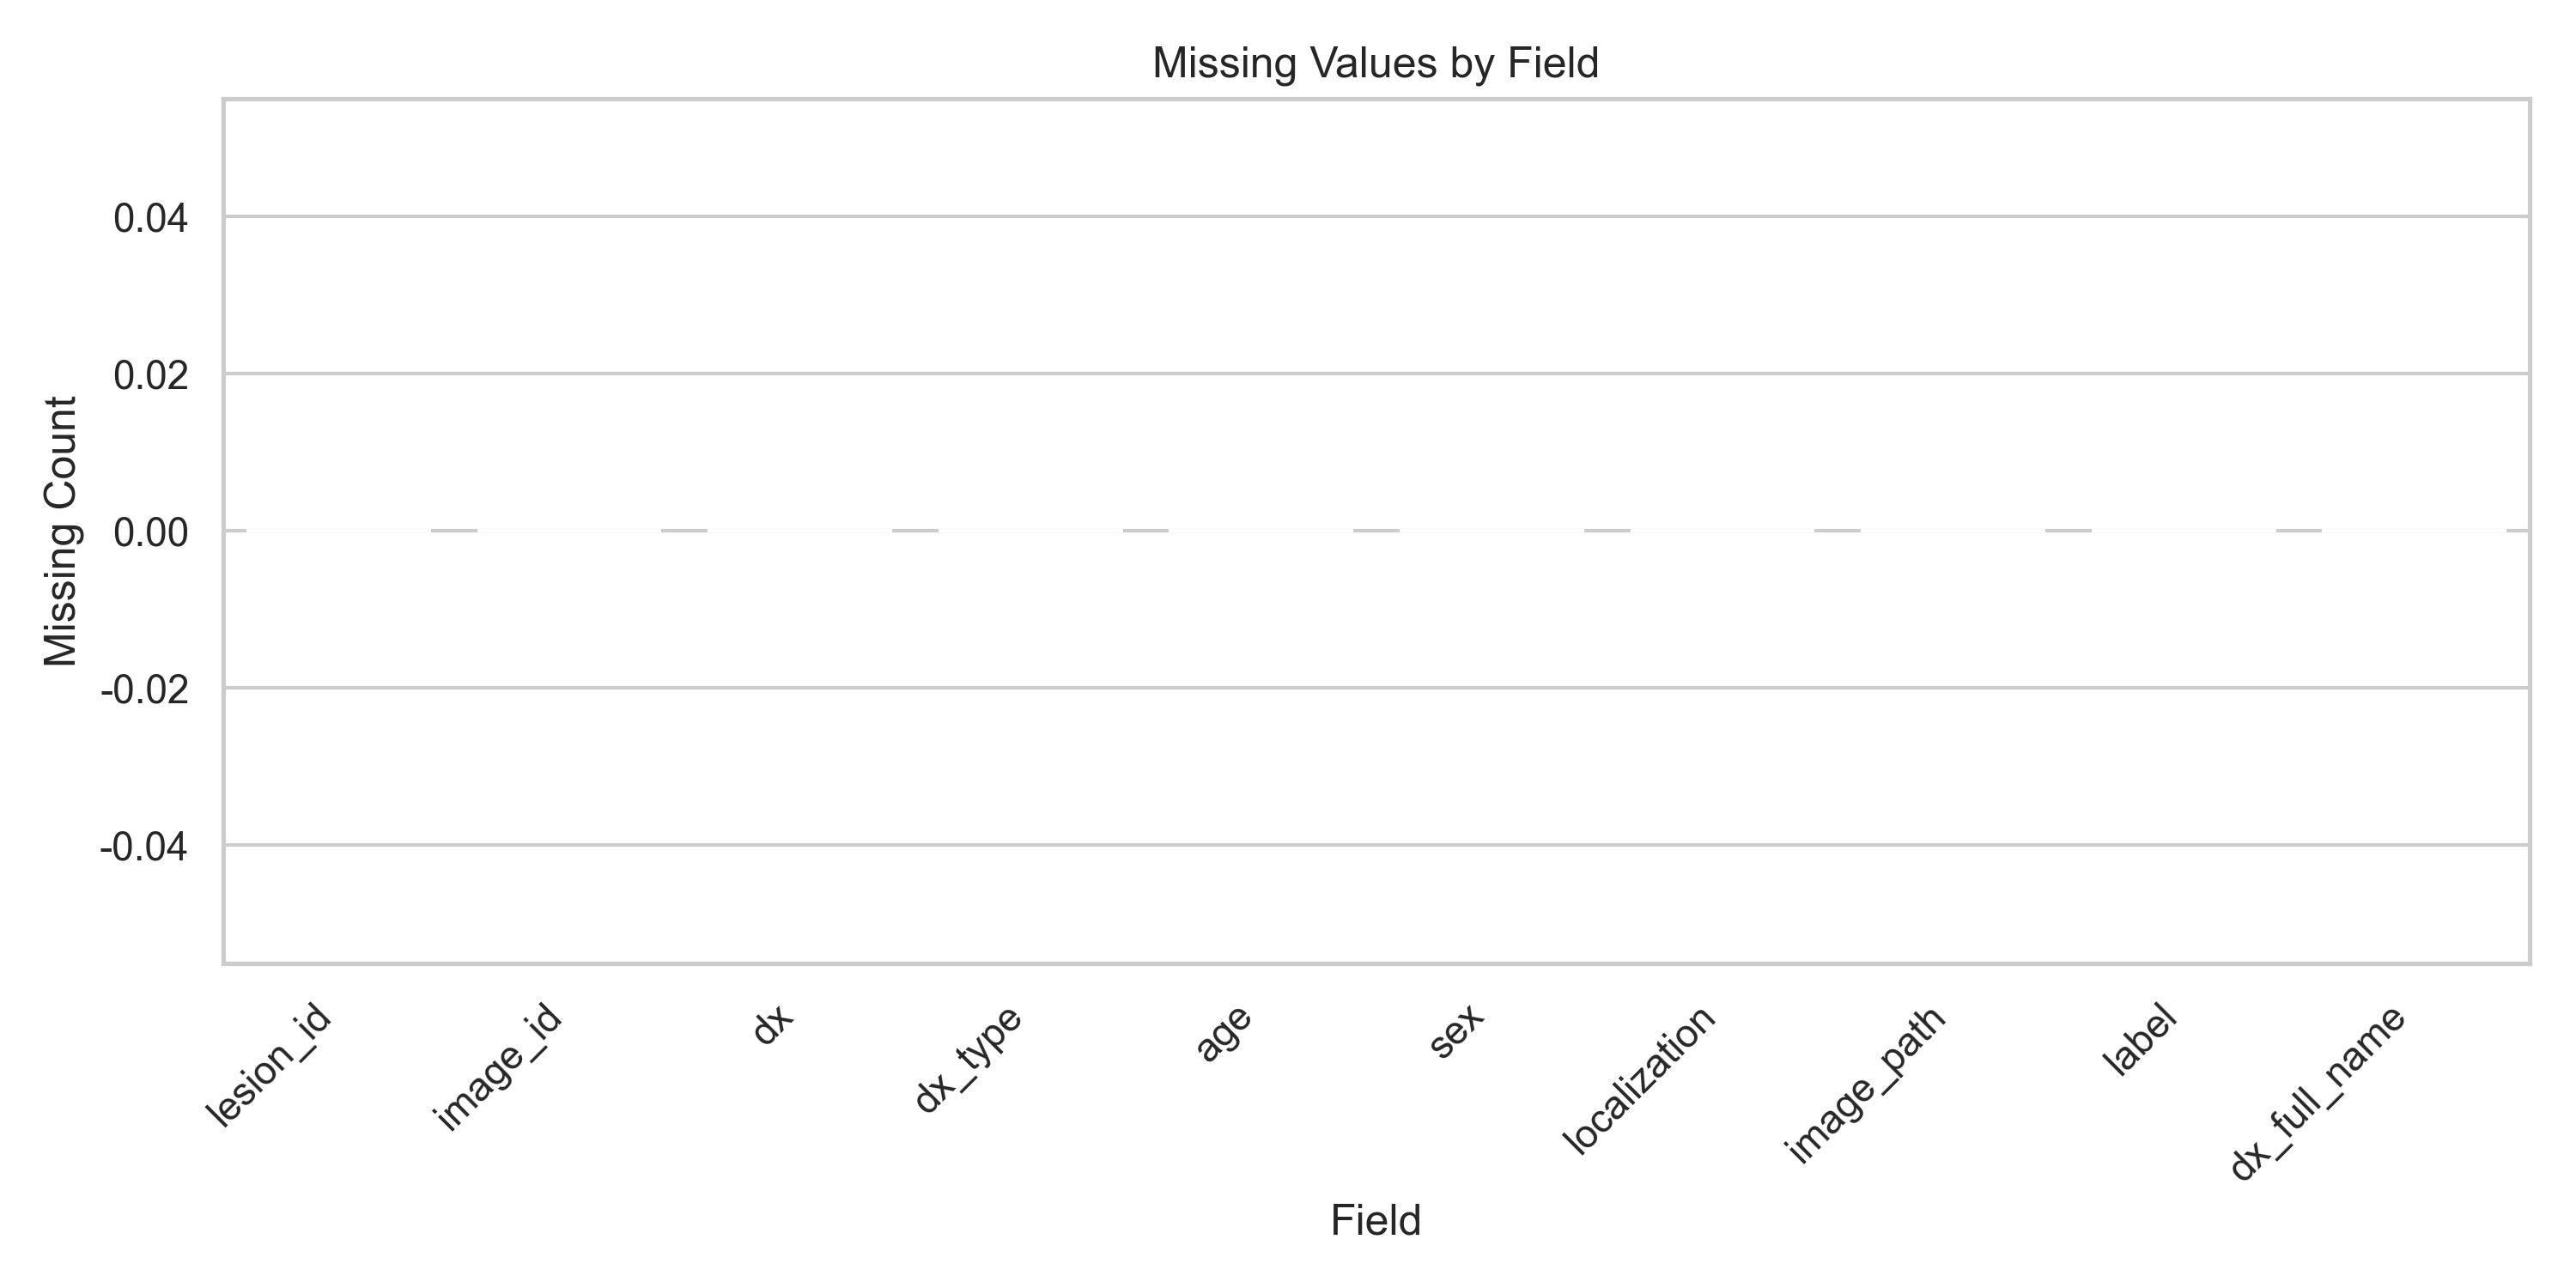
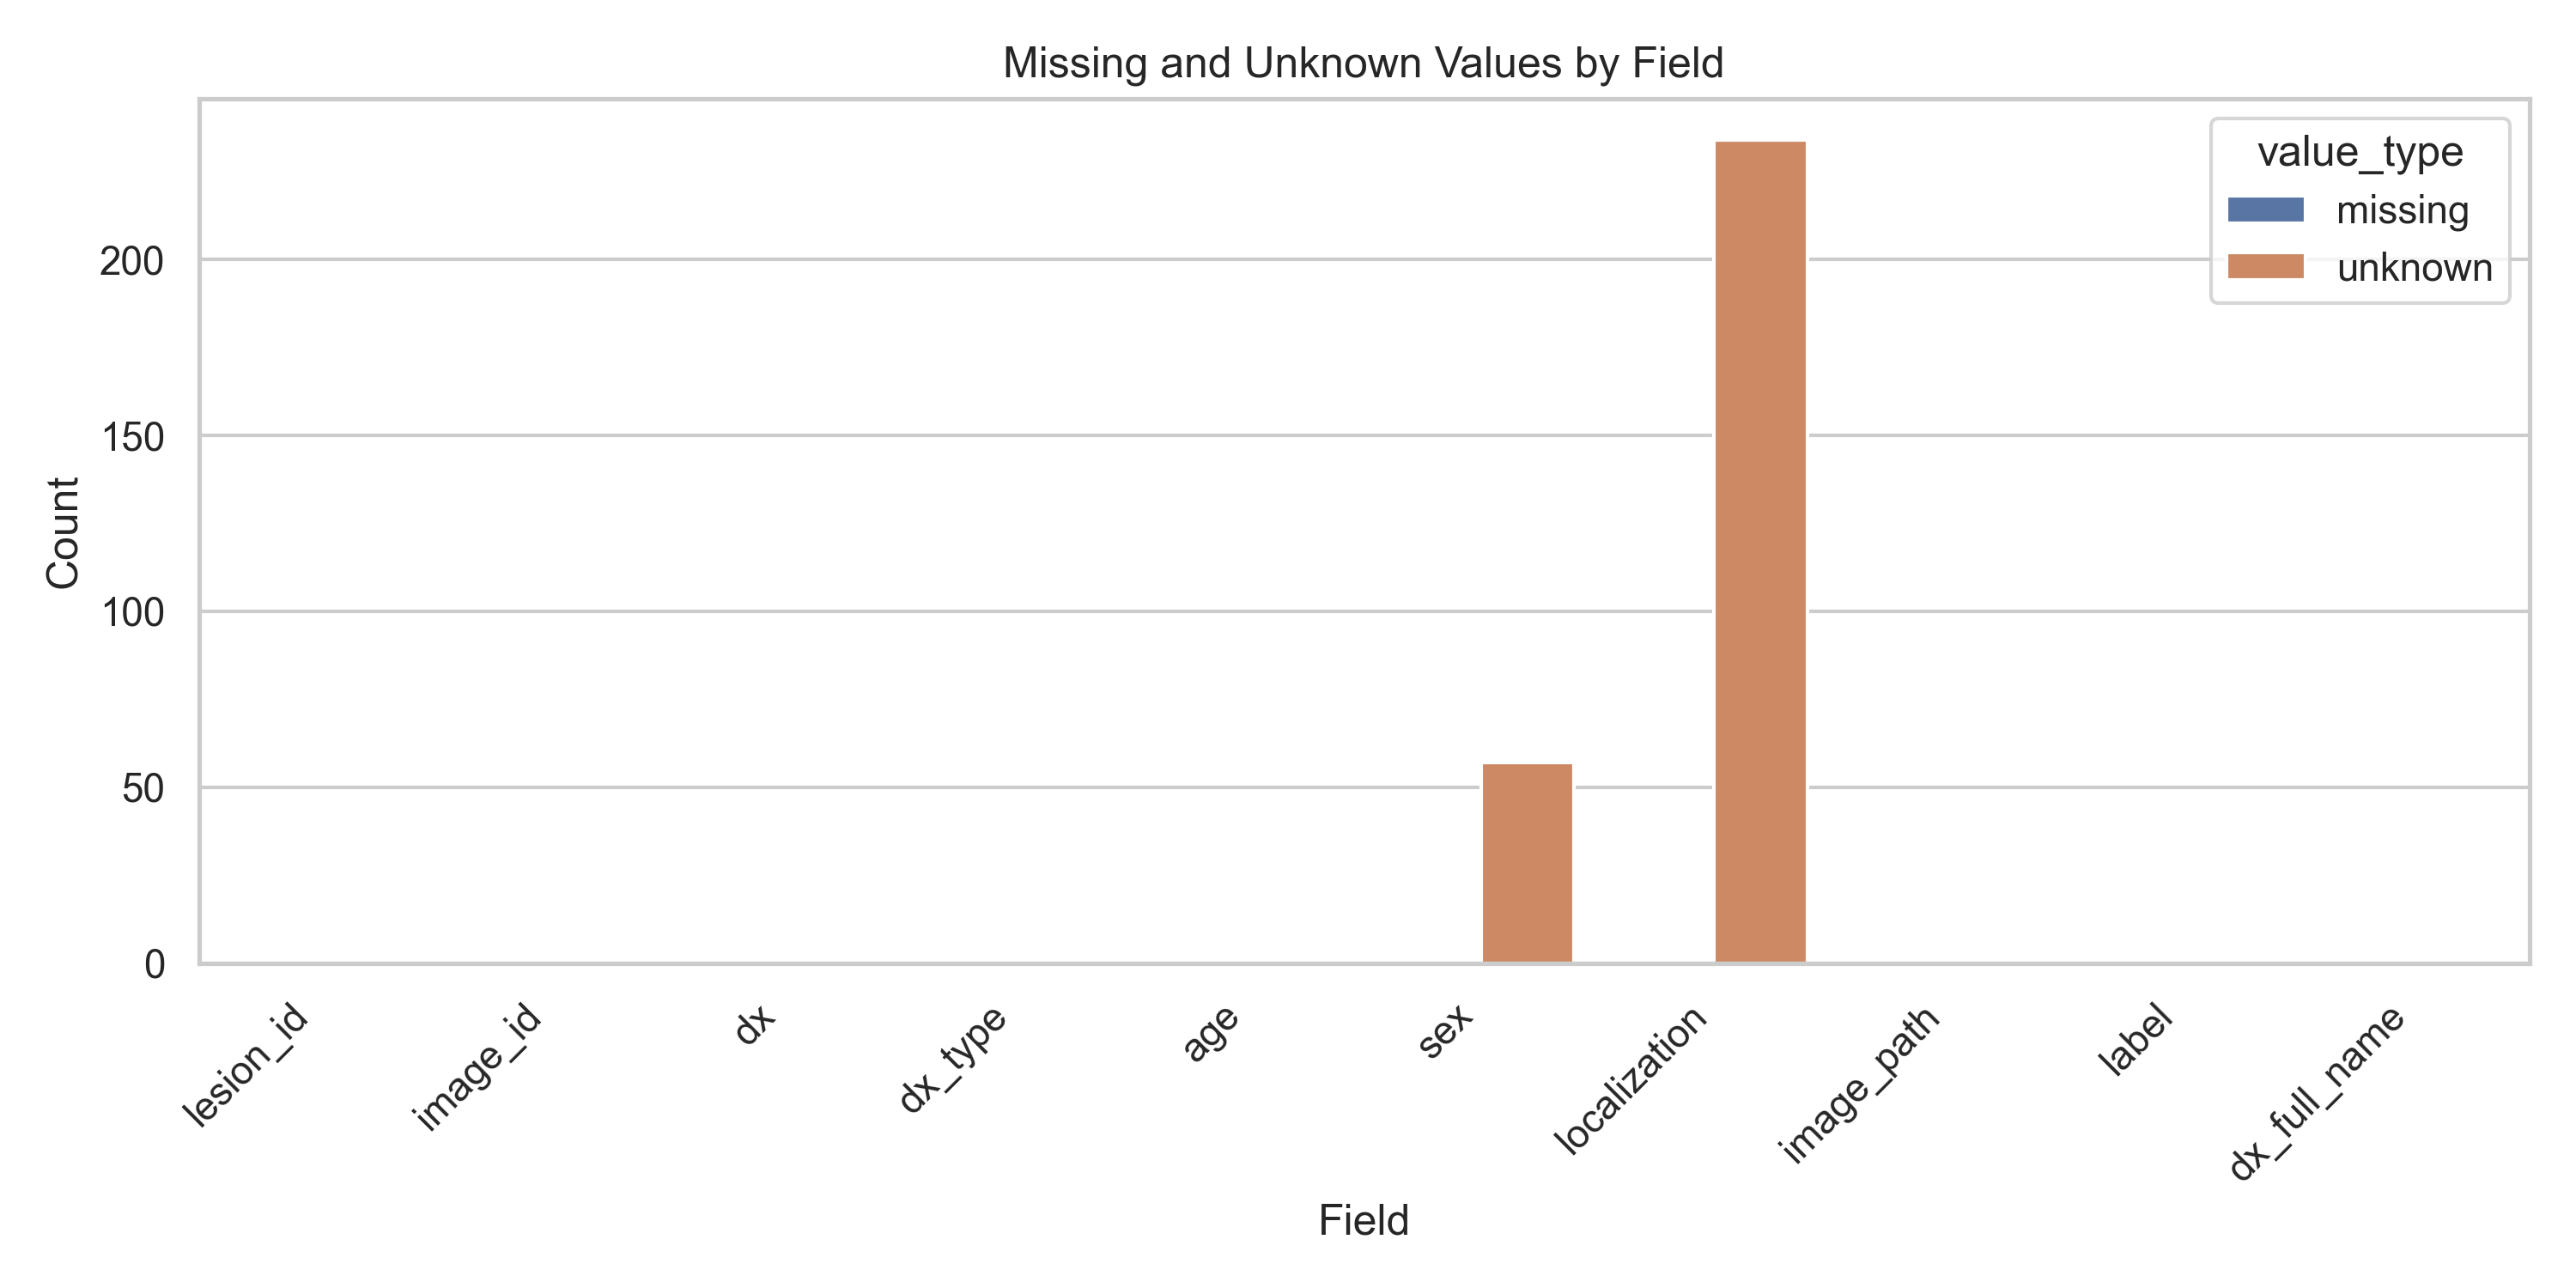
修改做图逻辑

diff --git a/reports/项目报告.md b/reports/项目报告.md
@@ -72,51 +72,139 @@
 
 ## 3 数据与预处理
 
-> **【本节需要由组员 1 （数据工程负责人）撰写】**
->
-> 本节对应数据工程负责人的核心交付物（数据预处理代码、特征文档、EDA 报告章节）。正文待补，撰写思路与已就绪的图表素材如下，相关实现见 `src/data/`（`check_dataset.py`、`clean_metadata.py`、`make_splits.py`、`dataset.py`）与 `notebooks/01_eda_liujie.ipynb`，并可参考 `docs/feature_engineering_liujiye.md`。
+本节由刘继业完成的数据处理流程。整体管线从 Kaggle 下载后的原始 HAM10000 数据出发，依次完成数据完整性校验、元数据清洗、图像预处理接口封装、类别不平衡处理方案设计、探索性数据分析以及病灶级数据集划分。相关实现位于 `src/data/`，其中 `check_dataset.py` 用于原始数据检查，`clean_metadata.py` 用于元数据清洗，`make_splits.py` 用于数据集划分，`dataset.py` 提供 PyTorch Dataset 与训练阶段采样工具。EDA 图表由 `notebooks/01_eda_liujie.ipynb` 生成。
 
 ### 3.1 数据完整性校验
 
+原始数据下载后，首先对 metadata 与图像文件进行一致性检查。HAM10000 的元数据文件 `HAM10000_metadata.csv` 共包含 10,015 条记录、7 个字段，字段分别为 `lesion_id`、`image_id`、`dx`、`dx_type`、`age`、`sex` 与 `localization`。图像文件分布在 `HAM10000_images_part_1` 与 `HAM10000_images_part_2` 两个目录中，分别包含 5,000 张与 5,015 张 jpg 图片，合计 10,015 张。
+
+完整性检查结果显示，metadata 中所有 `image_id` 均可以在图像目录中找到对应图片，缺失图片数量为 0；重复 `image_id` 数量为 0，说明每条图像记录具有唯一图像标识。与此同时，重复 `lesion_id` 数量为 2,545，说明同一病灶可能对应多张皮肤镜图像。这一现象对后续划分策略非常重要：若直接进行普通随机划分，同一病灶的不同图像可能同时进入训练集和测试集，从而造成病灶级数据泄漏。
+
+**表 3-1 原始数据完整性检查结果**
+
+| 检查项 | 结果 |
+| ------ | ---: |
+| metadata 样本数 | 10,015 |
+| metadata 字段数 | 7 |
+| `HAM10000_images_part_1` 图片数 | 5,000 |
+| `HAM10000_images_part_2` 图片数 | 5,015 |
+| 合计可索引图片数 | 10,015 |
+| 缺失图片记录数 | 0 |
+| 重复 `image_id` 数量 | 0 |
+| 重复 `lesion_id` 数量 | 2,545 |
 
 ### 3.2 元数据清洗与缺失值处理
 
+在进行元数据清洗的目标不是改变原始数据文件，而是生成可直接用于训练的派生文件 `data/processed/metadata_clean.csv`。清洗流程首先根据 `image_id` 在两个图像目录中匹配 jpg 文件，并新增 `image_path` 字段，记录图片相对于项目根目录的路径。若存在无法匹配图片的记录，则删除该记录；若存在重复 `image_id`，则仅保留第一条记录。本数据集中不存在缺失图片和重复 `image_id`，因此清洗前后样本数均为 10,015。
 
-> 缺失值与字段分布配图：
->
-> ![清洗后字段缺失值统计](figures/missing_values.png)
->
-> **图 3-1** 清洗后各字段缺失/未知值统计
+缺失值处理方面，`age` 字段存在 57 个缺失值，使用清洗后数据中的年龄中位数进行填补。`sex` 字段无空值，但有 57 条 `unknown`；`localization` 字段无空值，但有 234 条 `unknown`。对于这两个类别型元数据，本项目不删除样本，而是统一将缺失、空字符串或未知取值保留为 `unknown` 类别。这样既避免因少量元数据缺失损失图像样本，也允许融合模型在训练时学习“未知元数据”这一状态。
+
+标签处理方面，将原始诊断缩写 `dx` 映射为整数标签 `label`：`akiec`、`bcc`、`bkl`、`df`、`mel`、`nv`、`vasc` 分别编码为 0 到 6。同时新增 `dx_full_name` 字段，保存疾病英文全称，便于报告展示、前端解释与模型输出解读。清洗后的核心字段包括原始 metadata 字段、`image_path`、`label` 与 `dx_full_name`。
+
+**表 3-2 关键字段缺失与未知值情况**
+
+| 字段 | 缺失值数量 | unknown 数量 | 处理策略 |
+| ---- | ---------: | -----------: | -------- |
+| `age` | 57 | 0 | 中位数填补 |
+| `sex` | 0 | 57 | 统一保留为 `unknown` |
+| `localization` | 0 | 234 | 统一保留为 `unknown` |
+| `dx_type` | 0 | 0 | 保持原值 |
+
+![清洗后字段缺失值统计](figures/missing_values.png)
+
+**图 3-1** 清洗后各字段缺失值统计
 
 ### 3.3 图像预处理与数据增强
 
+图像预处理在 `src/data/dataset.py` 中实现，并封装为 `get_train_transform()` 与 `get_valid_transform()` 两套接口。图像读取时统一使用 OpenCV 读取文件，并从 BGR 转换为 RGB，以保证输入通道顺序与常见预训练模型保持一致。所有图像均 resize 到 224×224，适配 EfficientNet-B0 等常用 ImageNet 预训练骨干网络。
+
+归一化采用 ImageNet 均值与标准差：
+
+$$
+\mu=(0.485,0.456,0.406), \quad \sigma=(0.229,0.224,0.225)
+$$
+
+训练集采用随机数据增强以提升泛化能力，包括水平翻转、随机 90 度旋转、平移缩放旋转以及亮度/对比度扰动。验证集和测试集不使用任何随机增强，只保留 resize、归一化与张量转换。这一区分保证了训练阶段具有足够的扰动和鲁棒性，同时使验证与测试结果稳定、可复现。
 
 ### 3.4 元数据特征工程
 
+除图像外，本项目还利用患者年龄、性别与病灶部位作为结构化元数据特征，以支持后续多模态融合模型。`HAM10000Dataset` 提供 `use_metadata` 参数控制返回形式：当 `use_metadata=False` 时，每个样本返回 `(image, label)`；当 `use_metadata=True` 时，每个样本返回 `(image, metadata_tensor, label)`。
+
+元数据张量由三个部分组成：`age` 使用 `age / 100` 归一化到大致 0 到 1 的范围；`sex` 进行类别编码；`localization` 同样进行类别编码。类别映射根据当前 CSV 中出现的取值自动构建，并将 `unknown` 放在稳定的编码位置，从而保证训练和推理时可以处理未知或缺失元数据。通过这种接口设计，算法同学可以在同一份数据管线上灵活训练纯图像模型、纯元数据模型与图像+元数据融合模型。
 
 ### 3.5 类别不平衡分析与处理
 
+HAM10000 的类别分布极不均衡。原始数据中 `nv` 类样本最多，共 6,705 张，占全部样本约 66.9%；而 `df` 类仅 115 张，占比约 1.1%。如果模型训练和评估仅关注整体 Accuracy，模型可能通过偏向多数类获得较高表面准确率，却在少数类上表现较差。因此，本项目在数据工程阶段明确将类别不平衡作为后续训练策略和评估指标设计的重要约束。
 
+**表 3-3 HAM10000 原始类别分布**
+
+| 类别 | 样本数 | 占比 |
+| ---- | -----: | ---: |
+| `akiec` | 327 | 3.3% |
+| `bcc` | 514 | 5.1% |
+| `bkl` | 1,099 | 11.0% |
+| `df` | 115 | 1.1% |
+| `mel` | 1,113 | 11.1% |
+| `nv` | 6,705 | 66.9% |
+| `vasc` | 142 | 1.4% |
+
+类别不平衡处理不在清洗阶段直接改变 CSV 中的样本数量，也不复制原始图像，而是在训练阶段通过两类工具实现。第一类是类别权重，`compute_class_weights(csv_path)` 根据训练集标签分布计算 class weights，可传入交叉熵损失函数，使少数类错误获得更高惩罚。第二类是 `WeightedRandomSampler`，`build_weighted_sampler(csv_path)` 根据类别频次为每个样本分配采样权重，使少数类在训练 batch 中更容易被采样。
+
+需要说明的是，本项目不直接对原始图像像素使用 SMOTE。SMOTE 更适合低维结构化特征；若直接在高维图像像素空间插值，可能生成不符合真实皮肤病变形态的图像，反而引入噪声。对于图像模型，本项目主要采用类别权重、重采样和数据增强；对于纯元数据模型，SMOTE 可作为额外对照实验，但不作为图像训练的默认方案。
 
 ### 3.6 探索性数据分析（EDA）
 
-> 下列图表均由 `notebooks/01_eda_liujie.ipynb` 生成并保存于 `reports/figures/`。
->
-> ![类别分布](figures/class_distribution.png) > **图 3-2** HAM10000 类别分布
->
-> ![样例图像](figures/sample_images_by_class.png) > **图 3-3** 各诊断类别样例图像
->
-> ![年龄分布](figures/age_distribution.png) > **图 3-4** 患者年龄分布
->
-> ![性别分布](figures/sex_distribution.png) > **图 3-5** 患者性别分布
->
-> ![病灶部位分布](figures/localization_distribution.png) > **图 3-6** 病灶部位分布
->
-> ![诊断确认方式分布](figures/dx_type_distribution.png) > **图 3-7** 诊断确认方式分布
+探索性数据分析由 `notebooks/01_eda_liujie.ipynb` 完成，图表统一保存于 `reports/figures/`。类别分布图进一步直观展示了 `nv` 的多数类优势和 `df`、`vasc` 等少数类的稀缺性，验证了类别不平衡处理的必要性。
+
+![类别分布](figures/class_distribution.png)
+
+**图 3-2** HAM10000 类别分布
+
+各类别样例图像显示，不同病变在颜色、边界、纹理和形态上存在一定差异，但部分恶性与良性病变在视觉上相近，单纯依赖人工观察容易受到经验影响。这也是采用深度学习模型提取图像特征的动机之一。
+
+![样例图像](figures/sample_images_by_class.png)
+
+**图 3-3** 各诊断类别样例图像
+
+年龄分布显示样本主要集中在中老年人群，这与皮肤病变尤其是部分肿瘤性病变的流行病学特征相符。年龄因此可作为融合模型中的辅助先验信息，但其本身不足以完成可靠诊断。
+
+![年龄分布](figures/age_distribution.png)
+
+**图 3-4** 患者年龄分布
+
+性别分布图用于检查男女样本及 unknown 样本情况。由于性别信息可能与部分病变风险存在统计相关性，本项目在元数据分支中保留该字段，并将 unknown 作为单独类别处理。
+
+![性别分布](figures/sex_distribution.png)
+
+**图 3-5** 患者性别分布
+
+病灶部位分布展示了样本在背部、下肢、躯干等部位上的集中情况。病灶部位同样具有一定先验价值，例如不同病变类型在身体部位上的出现频率并不完全相同，因此被纳入元数据特征。
+
+![病灶部位分布](figures/localization_distribution.png)
+
+**图 3-6** 病灶部位分布
+
+诊断确认方式 `dx_type` 反映样本标签来源，包括病理、随访、专家共识等方式。该字段有助于理解标签可靠性与数据来源结构，但在本项目主模型输入中主要使用年龄、性别和部位三类患者元数据。
+
+![诊断确认方式分布](figures/dx_type_distribution.png)
+
+**图 3-7** 诊断确认方式分布
 
 ### 3.7 数据集划分
 
+数据划分采用 `sklearn.model_selection.GroupShuffleSplit`，以 `lesion_id` 作为 group 进行病灶级划分，而不是对单张图像进行普通随机划分。这样可以确保同一病灶的多张图像不会同时出现在训练集、验证集和测试集中，从源头上避免病灶级数据泄漏。
 
+划分过程分两步完成：首先按照 70% / 30% 将数据划分为训练集和临时集；随后将临时集按 50% / 50% 划分为验证集和测试集，最终得到约 70% / 15% / 15% 的比例。随机种子固定为 `random_state=42`，保证结果可复现。脚本在划分后会显式检查 train、val、test 三者之间的 `lesion_id` 是否有交集；本次划分结果确认三者病灶互不重叠。
+
+**表 3-4 数据集划分结果**
+
+| 数据集 | 样本数 | `akiec` | `bcc` | `bkl` | `df` | `mel` | `nv` | `vasc` |
+| ------ | -----: | ------: | ----: | ----: | ---: | ----: | ---: | -----: |
+| train | 7,002 | 207 | 381 | 741 | 89 | 770 | 4,718 | 96 |
+| val | 1,519 | 57 | 65 | 206 | 19 | 156 | 991 | 25 |
+| test | 1,494 | 63 | 68 | 152 | 7 | 187 | 996 | 21 |
+
+最终生成的 `train.csv`、`val.csv`、`test.csv` 与 `split.csv` 位于 `data/processed/`，每条记录均包含图像路径、整数标签、疾病全称与元数据字段，可直接被 `HAM10000Dataset` 读取并交付给后续模型训练流程。
 
 ---
 